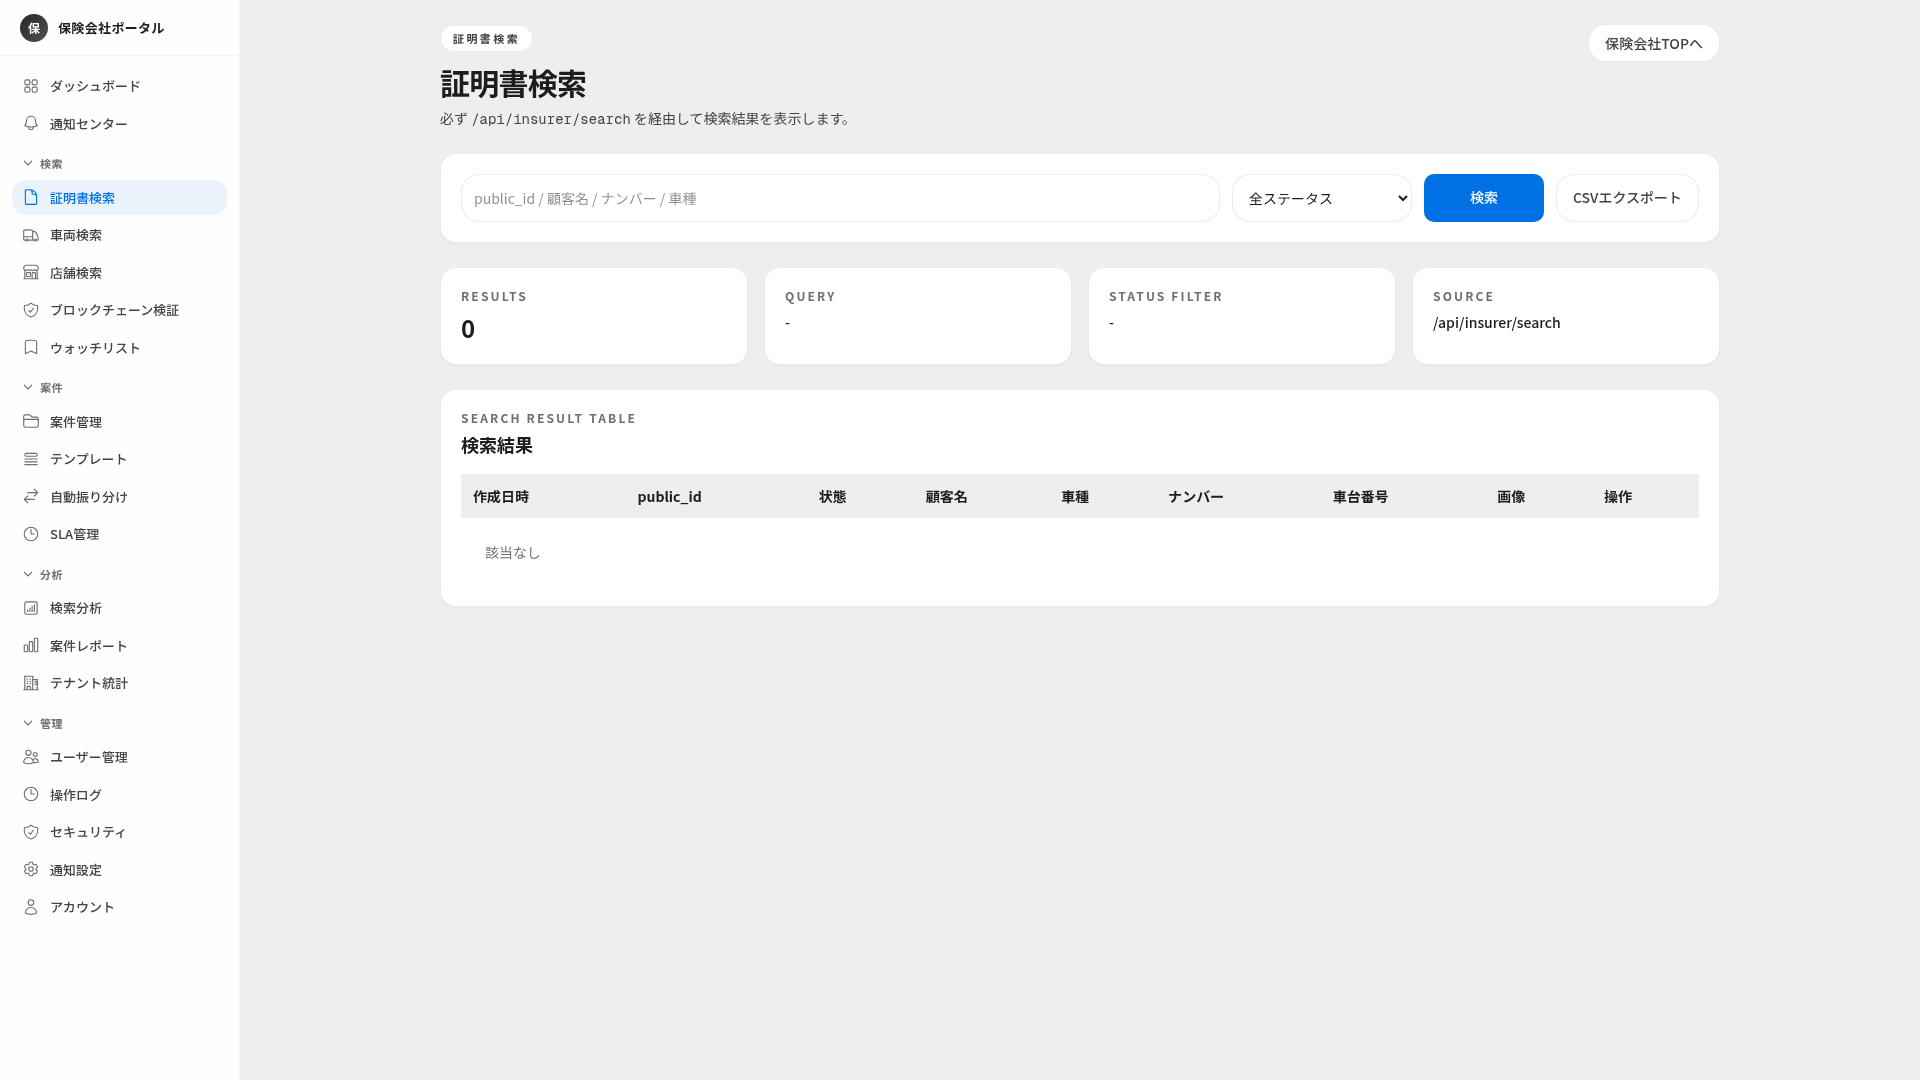
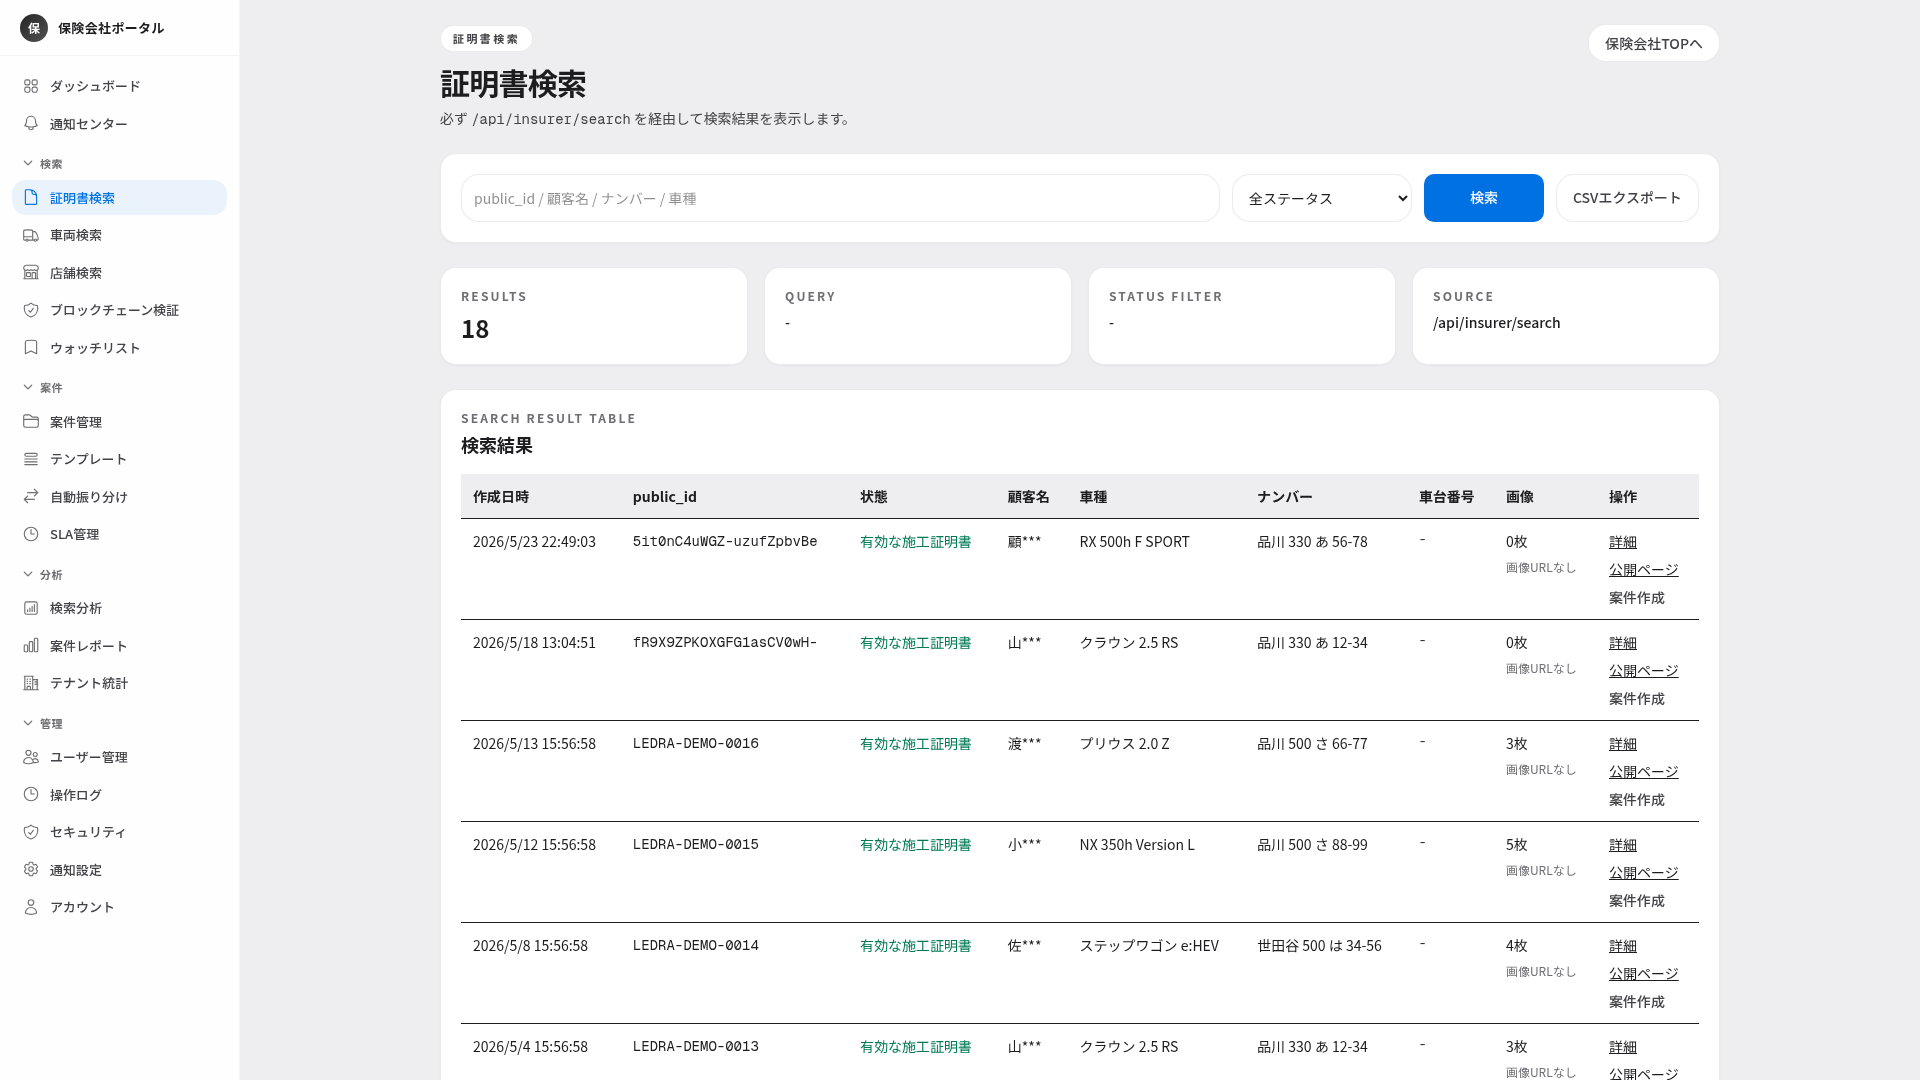
保険会社スライドを検索結果18件が並んだ状態で撮り直し、デモ環境の穴を塞ぐ
デモ保険会社は insurer_tenant_access に行を1件も持っておらず、ログインできても
証明書検索・車両検索・店舗検索が常に0件になっていた。setup-demo-insurer.ts が
保険会社とユーザーを作るだけで、テナントの閲覧許可を付与していなかったのが原因。

デモ施工店 Ledra Motors（デモ）への閲覧許可を1件追加し、同じ upsert を
シードスクリプトにも入れて再現可能にした。これでデモ保険会社に見えるのは
デモ施工店だけ（証明書18件、すべて架空データ）。実テナントは見えない。

キャプチャは RESULTS 18 の検索結果が並んだ状態に差し替えた。PDF は 14 ページのまま。

あわせて前回の報告の誤りを訂正した。「デモ保険会社が実テナント HOLY AUTO を
照会できる」と4か所に書いていたが、これは insurer_id で絞らないクエリの1行を
デモ保険会社のものと決めつけた誤りだった。その行は別の保険会社のもので、
実データが配布物に載る危険は最初から無かった。MISTAKE_LEDGER に M-017 として記録。

Claude-Session: https://claude.ai/code/session_014sKXp4GkwU5HEtHPbXc3ZU

diff --git a/scripts/setup-demo-insurer.ts b/scripts/setup-demo-insurer.ts
@@ -24,6 +24,9 @@ const SUPABASE_URL = process.env.SUPABASE_URL ?? process.env.NEXT_PUBLIC_SUPABAS
 const SUPABASE_SERVICE_ROLE_KEY = process.env.SUPABASE_SERVICE_ROLE_KEY ?? "";
 
 const DEMO_INSURER_ID = "00000000-0000-0000-0000-de0000000100";
+// setup-demo-tenant.ts が作るデモ施工店。これを見せないと、デモ保険会社は
+// ログインできても検索結果が常に0件になる（アクセスできるテナントが1つも無いため）。
+const DEMO_TENANT_ID = "00000000-0000-0000-0000-de0000000010";
 const DEMO_PASSWORD = "Demo1234!";
 
 type DemoUser = {
@@ -131,6 +134,29 @@ async function main() {
     }
     console.log(`   → insurer_users リンク完了 (role: ${u.role})`);
   }
+
+  // ── デモ施工店への閲覧許可 ────────────────────────────────────────
+  // これが無いと insurer_accessible_tenant_ids() が空を返し、証明書検索・
+  // 車両検索・店舗検索がすべて「該当なし」になる（画面は出るが常に0件）。
+  const { error: accessErr } = await admin
+    .from("insurer_tenant_access")
+    .upsert(
+      {
+        insurer_id: DEMO_INSURER_ID,
+        tenant_id: DEMO_TENANT_ID,
+        is_active: true,
+        is_enabled: true,
+        revoked_at: null,
+        notes: "デモ保険会社にデモ施工店を閲覧させる（デモ環境の初期データ）",
+      },
+      { onConflict: "insurer_id,tenant_id" },
+    );
+
+  if (accessErr) {
+    console.error("❌ insurer_tenant_access 付与失敗:", accessErr.message);
+    process.exit(1);
+  }
+  console.log("✅ デモ施工店への閲覧許可を付与");
 
   // ── Summary ───────────────────────────────────────────────────────
   console.log(`

diff --git a/docs/context/DECISION_LOG.md b/docs/context/DECISION_LOG.md
@@ -13,26 +13,29 @@
    本番に適用。HTTP 500 が解消し、撮影できてサービス概要 PDF が **13 → 14 ページ**になった。
 3. 以前の考え: 撮影は「デモテナント `Ledra Motors（デモ）` に対して行うので実顧客のデータは
    写らない」という前提で進めていた。3枚とも同じ前提が成り立つと考えていた。
-4. 違和感・問題: 500 が消えた後の検索画面が「該当なし・RESULTS 0」だった。件数を調べると、
-   デモ保険会社が見られるテナントは**デモテナントではなく実テナント `HOLY AUTO`**（証明書1件）
-   だった。つまり検索を実行させて「結果が並んだ絵」にすると、**実業務の証明書が配布 PDF に載る**。
-   RPC は顧客名をマスクするが、車種・ナンバー・車台番号・画像はマスクされない。
+4. 違和感・問題: 500 が消えた後の検索画面が「該当なし・RESULTS 0」だった。
+   **【訂正 2026-09-03】** ここで当初「デモ保険会社が見られるのは実テナント `HOLY AUTO` なので、
+   検索を実行させると実業務の証明書が配布 PDF に載る」と判断したが、**これは誤りだった**。
+   `insurer_tenant_access` を保険会社で絞らずに1行だけ見て、それをデモ保険会社のものと
+   決めつけていた。実際にはその行は**別の保険会社（`東京海上日動`、実アカウント）**のもので、
+   **デモ保険会社はアクセス行を1件も持っていなかった**。0件だったのは単にそれが理由であり、
+   実データが配布物に載る危険は最初から無かった（MISTAKE_LEDGER M-017）。
 5. 決めたこと: (a) DB 修正は適用する（挙動を変えず、壊れた参照を直すだけ）。
-   (b) **検索は実行せず、空の初期状態のまま撮影する。** 実データを載せない方を優先した。
-   (c) デモ保険会社にデモテナントを見せるかは本番のアクセス制御データを増やす話なので
-   OPEN_QUESTIONS に起票して代表判断に回す。
-6. 捨てた選択肢: (a) 検索を実行して結果が並んだ絵を撮る…見栄えは良いが実データが配布物に載る。
-   (b) `insurer_tenant_access` にデモテナントの行を足してから撮る…絵は最善になるが、
-   撮影のついでに本番のアクセス制御行を増やすことになる。許可の範囲は「関数の修正」であって
-   「アクセス権の付与」ではないので採らなかった。
-   (c) 3枚目を諦めて 13 ページのまま出す…DB 修正の許可が出た以上、諦める理由がない。
-7. 判断理由: 配布 PDF は社外に渡る。スライドの見栄えと、実顧客・実業務データを外に出さないことの
-   どちらを取るかは、比べるまでもない。空の検索画面でも「保険会社が自分のポータルから検索できる」
-   という主張は成立する。また、許可された変更（壊れた関数を直す）と許可されていない変更
-   （アクセス権を足す）は別物として扱った。
-8. まだ答えが出ていないこと: 本番の `insurer_tenant_access` に「デモ保険会社 → 実テナント
-   HOLY AUTO」の行が存在してよいのか【要確認】。保険会社スライドを実データ入りにするなら
-   デモテナントへのアクセスを与えるかどうか。
+   (b) 一度は「検索を実行せず空の初期状態で撮る」としたが、上の訂正で前提が崩れ、さらに
+   代表から「実データでなくてもいいがデータが入るとこんな感じは見せたい」と要望があったため、
+   **デモ保険会社にデモ施工店の閲覧許可を付与し、18件が並んだ状態で撮影した**。
+   (c) 同じ許可を `scripts/setup-demo-insurer.ts` にも入れ、再現できるようにした。
+6. 捨てた選択肢: (a) 空の検索画面のまま出す…「データが入った状態を見せたい」という要望を満たさない。
+   (b) Playwright で API 応答を差し替えて偽の行を描画する…DB に触らずに済むが、
+   配布資料に載る行を自分で捏造することになる。デモテナントには実際に18件あるので採らない。
+   (c) 実テナントのデータを見せる…論外。そもそも今回の付与ではデモ施工店しか見えない。
+7. 判断理由: デモ施工店のデータは架空（山田太郎・品川ナンバー等）なので、配布物に載っても
+   実顧客の情報は出ない。かつ「デモ保険会社がログインしても常に0件」という状態自体が
+   デモ環境の不備であり、付与はその修復でもある。**シードスクリプトに入れたのは、
+   同じ状態を手作業の1行 INSERT で維持しないため**（次に環境を作り直した人が同じ穴に落ちる）。
+8. まだ答えが出ていないこと: `insurer_tenant_access` の既存の唯一の行
+   （`東京海上日動` → 実テナント `HOLY AUTO`）が意図した設定なのか【要確認】。
+   デモ用アカウントとは無関係なので、配布資料の話とは切り離して判断が必要。
 9. 公開区分: 要確認（「自動生成した営業資料に実顧客データが載りかけた」「前提が portal ごとに
    違った」という教訓は一般論として公開可。ただし実テナント名・証明書件数・アクセス制御の
    詳細は非公開）

diff --git a/docs/context/MISTAKE_LEDGER.md b/docs/context/MISTAKE_LEDGER.md
@@ -20,12 +20,53 @@
 
 | 型 | 中身 | 該当 |
 |---|---|---|
-| **A. 道具を検証しない** | 変更したコードは検証したのに、「何を変えるべきか判断するために使った道具」（検出器・正規表現・スクリプト）を検証していない。道具の出力を事実として扱う | M-001, M-002, M-003, M-006, **M-012, M-016** |
+| **A. 道具を検証しない** | 変更したコードは検証したのに、「何を変えるべきか判断するために使った道具」（検出器・正規表現・スクリプト・クエリ）を検証していない。道具の出力を事実として扱う。**そのクエリが何を確定させたのかを確かめずに、確定したつもりになる**のもこの型 | M-001, M-002, M-003, M-006, **M-012, M-016, M-017** |
 | **B. 読まずに分類する** | コードの形（関数名・構造）から中身を推測して分類し、実際に読んでいない | M-004 |
 | **C. 経路を1本しか見ない** | 同じ操作に複数の入口があるのに、目についた1本だけ直す | M-005, M-007, **M-013** |
 | **D. 移設で弱める** | 「同じものを別の場所に置くだけ」のつもりが、検査の強さや信号が落ちている | M-008 |
 | **E. 手元とCIの差を忘れる** | 手元では通るのに CI だけ落ちる構成を作る。書いた本人には見えない | M-009 |
 | **F. 確認できる事実を確認しない** | 環境から1コマンドで確かめられる事実（今日の日付・件数・バージョン・設定ファイルの中身）を、確かめずに書く | M-011, **M-014, M-015** |
+
+---
+
+## M-017 絞り込んでいないクエリの1行を「デモ用アカウントのもの」と決めつけ、情報漏洩の危険を捏造した（2026-09-03、M-016 の翌日・同じ形）
+
+**Before**: 保険会社ポータルの検索が0件だった理由を調べるのに
+
+```sql
+select tenant_id from public.insurer_tenant_access where is_active and revoked_at is null
+```
+
+を実行し、返ってきた**1行（実テナント `HOLY AUTO`）を「デモ保険会社が見られるテナント」と読んだ**。
+`insurer_id` で絞っていないのに、返り値が1行だったので「これがデモ保険会社の分だ」と解釈した。
+そこから「検索を実行させると実業務の証明書が配布 PDF に載る」と結論し、
+**PR コメント・DECISION_LOG・OPEN_QUESTIONS・RELEASE_LOG の4か所に「実データが載る危険がある」と書き**、
+代表に「デモ用アカウントが実テナントを照会できる状態です」と確認を求めた。
+
+**After**: `insurer_id` で絞って引き直したら、**デモ保険会社の行は0件**だった。
+その1行は別の保険会社（`東京海上日動`、実アカウント、ユーザー1名）のもの。
+検索が0件だったのは「デモ保険会社にアクセス可能なテナントが1つも無いから」であって、
+**実データが配布物に載る危険は最初から存在しなかった**。原因は
+`scripts/setup-demo-insurer.ts` が保険会社とユーザーを作るだけで閲覧許可を付与していなかったこと。
+デモ施工店への許可を1行追加し、シードスクリプトにも入れて解消した。
+
+**なぜ気づけなかったか**: **結果が1行だったことを「絞り込めている」ことの証拠として扱った。**
+実際には母集団が1行だっただけで、その1行が誰のものかは何も言っていない。
+`where` に `insurer_id` が無いのに、頭の中では「デモ保険会社の話をしている」という文脈が
+続いていたので、返り値をその文脈に吸い寄せて読んだ。**M-016 と同じ日の、同じ形**
+（クエリが何を確定させたのかを確かめずに、確定したつもりになる）。
+M-016 の再発防止に「陽性・陰性の両方で当たりを取る」と書いた翌日に、
+**今度は「そもそも対象で絞ったか」を見落とした**。前回の教訓が「検索式の書き方」の話として
+狭く記憶されていて、「主語が入っているか」という更に手前の話に届いていない。
+
+さらに悪いのは、**この誤りが「危険がある」方向だったこと**。安全側の誤りに見えるが、
+実際には存在しないセキュリティ問題を代表に報告し、判断を求め、
+配布資料の内容（検索結果を出さない）まで誤った前提で決めていた。
+
+**再発防止**: 仕組み無し（判断に依存）。習慣として、**特定の主体について結論を出すクエリは、
+その主体の識別子が `where` に現れているかを声に出して確認してから結果を読む**。
+返り値が1行であることは、絞り込めている証拠にならない。
+「この行が誰のものか」を答えられないなら、その行から誰についても結論を出さない。
 
 ---
 

diff --git a/docs/context/OPEN_QUESTIONS.md b/docs/context/OPEN_QUESTIONS.md
@@ -3,26 +3,23 @@
 > まだ決まっていないこと、判断に迷っていることを書く場所。決まったら
 > DECISION_LOG.md に移し、このファイルからは消す（削除履歴は git で追える）。
 
-## デモ保険会社アカウントが見られるのは実テナント `HOLY AUTO` で、デモテナントではない（2026-09-03）
+## デモ保険会社にデモ施工店の閲覧許可を入れた。実アカウントの越境アクセスは別途確認したい（2026-09-03）
 
-配布 PDF 用に保険会社ポータルの検索画面を撮影した際に判明した。**撮影の前提が間違っていた。**
+配布 PDF の保険会社スライドを「データが入った状態」で撮るために調べた結果。
+**当初ここに書いた「デモ保険会社が見られるのは実テナント HOLY AUTO」は誤りだった**
+（下記の訂正を参照）。
 
-- 撮影タスクは「デモテナント `Ledra Motors（デモ）`（証明書18・顧客10・車両11）で撮るので
-  実顧客のデータは写らない」という前提で進めていた。施工店ポータル（admin）はその通りだった。
-- しかし**保険会社ポータルは別**だった。`insurer_tenant_access` の有効な行は1件だけで、
-  その行が指すのは**実テナント `HOLY AUTO`（slug: holy-auto、証明書1件）**。
-  デモ保険会社アカウントからデモテナントは1件も見えない。
-- つまり検索を実行させた状態で撮ると、**実業務の証明書1件が配布 PDF に載る**。
-  RPC は顧客名を `左1文字 + ***` にマスクするが、車種・ナンバー・車台番号・画像の列は
-  マスクされない。そのため今回は**検索を実行せず、空の初期状態のまま撮影した**
-  （実データは写っていない）。
-- **判断が必要な点**: 保険会社ポータルのスライドを「実データが並んだ検索結果」にしたい場合、
-  デモ保険会社にデモテナントへのアクセスを与える（`insurer_tenant_access` に行を足す）のが
-  素直だが、これは本番のアクセス制御データを増やす操作なので代表判断が要る。
-  現状の空状態のままでよければ何もしなくてよい。
-- **別途確認したいこと**: そもそも本番の `insurer_tenant_access` に
-  「デモ保険会社 → 実テナント HOLY AUTO」の行が存在してよいのか。
-  デモ用アカウントが実テナントの証明書を照会できる状態になっている。【要確認】
+- **実際の状態**: デモ保険会社（`デモ損害保険株式会社`）は `insurer_tenant_access` に
+  **行を1件も持っていなかった**。だから証明書検索・車両検索・店舗検索はすべて
+  「該当なし」になっていた（画面は出るが常に0件）。`scripts/setup-demo-insurer.ts` は
+  保険会社とユーザーを作るだけで、テナントの閲覧許可を付与していなかったのが原因。
+- **やったこと**: デモ保険会社 → デモ施工店 `Ledra Motors（デモ）` の行を1件追加し、
+  シードスクリプトにも同じ upsert を入れて再現できるようにした。これでデモ保険会社に
+  見えるテナントは**デモ施工店だけ**（証明書18件、すべて架空データ）。
+- **【要確認】別件で残る疑問**: `insurer_tenant_access` の既存の唯一の行は
+  **保険会社 `東京海上日動`（実アカウント、ユーザー1名）→ 実テナント `HOLY AUTO`** だった。
+  これが意図した設定なのか（代表が自分のテナントで実際に連携を試している、等）は未確認。
+  デモ用アカウントとは無関係なので、配布資料の話とは切り離して判断が必要。
 
 ## AI の検出器が `getAnthropicClient()` に依存している（2026-09-03）
 

diff --git a/docs/context/RELEASE_LOG.md b/docs/context/RELEASE_LOG.md
@@ -21,9 +21,12 @@
   insurer_id を導出するため、**この修正で可視範囲は広がらない**（適用前に確認済み）。
 - これにより `public/screenshots/insurer/search.png` が撮影でき、**PDF が参照する3枚が揃った**。
   サービス概要 PDF を実レンダリングして **13 → 14 ページ**になることを確認した。
-- **保険会社スライドは検索を実行せず空の初期状態で撮っている。** デモ保険会社が見られる
-  テナントはデモテナントではなく実テナント `HOLY AUTO` だったため、検索を実行すると実業務の
-  証明書が配布物に載る（DECISION_LOG / OPEN_QUESTIONS 参照）。
+- **デモ保険会社にデモ施工店の閲覧許可を付与した。** それまでデモ保険会社は
+  `insurer_tenant_access` に行を1件も持たず、ログインできても検索は常に0件だった
+  （`scripts/setup-demo-insurer.ts` が閲覧許可を付与していなかった）。行を1件追加し、
+  同じ upsert をシードスクリプトにも入れて再現可能にした。これでデモ保険会社に見えるのは
+  デモ施工店だけ（証明書18件、すべて架空データ）。保険会社スライドは **RESULTS 18 の
+  検索結果が並んだ状態**で撮影している。実テナントのデータは写らない。
 - 検証: `npx tsc --noEmit` 通過、`npx vitest run` 全 **522 ファイル / 5,310 件**通過。
 
 ## 2026-09-03 AI を呼ぶ8ハンドラのレート制限漏れを塞いだ
